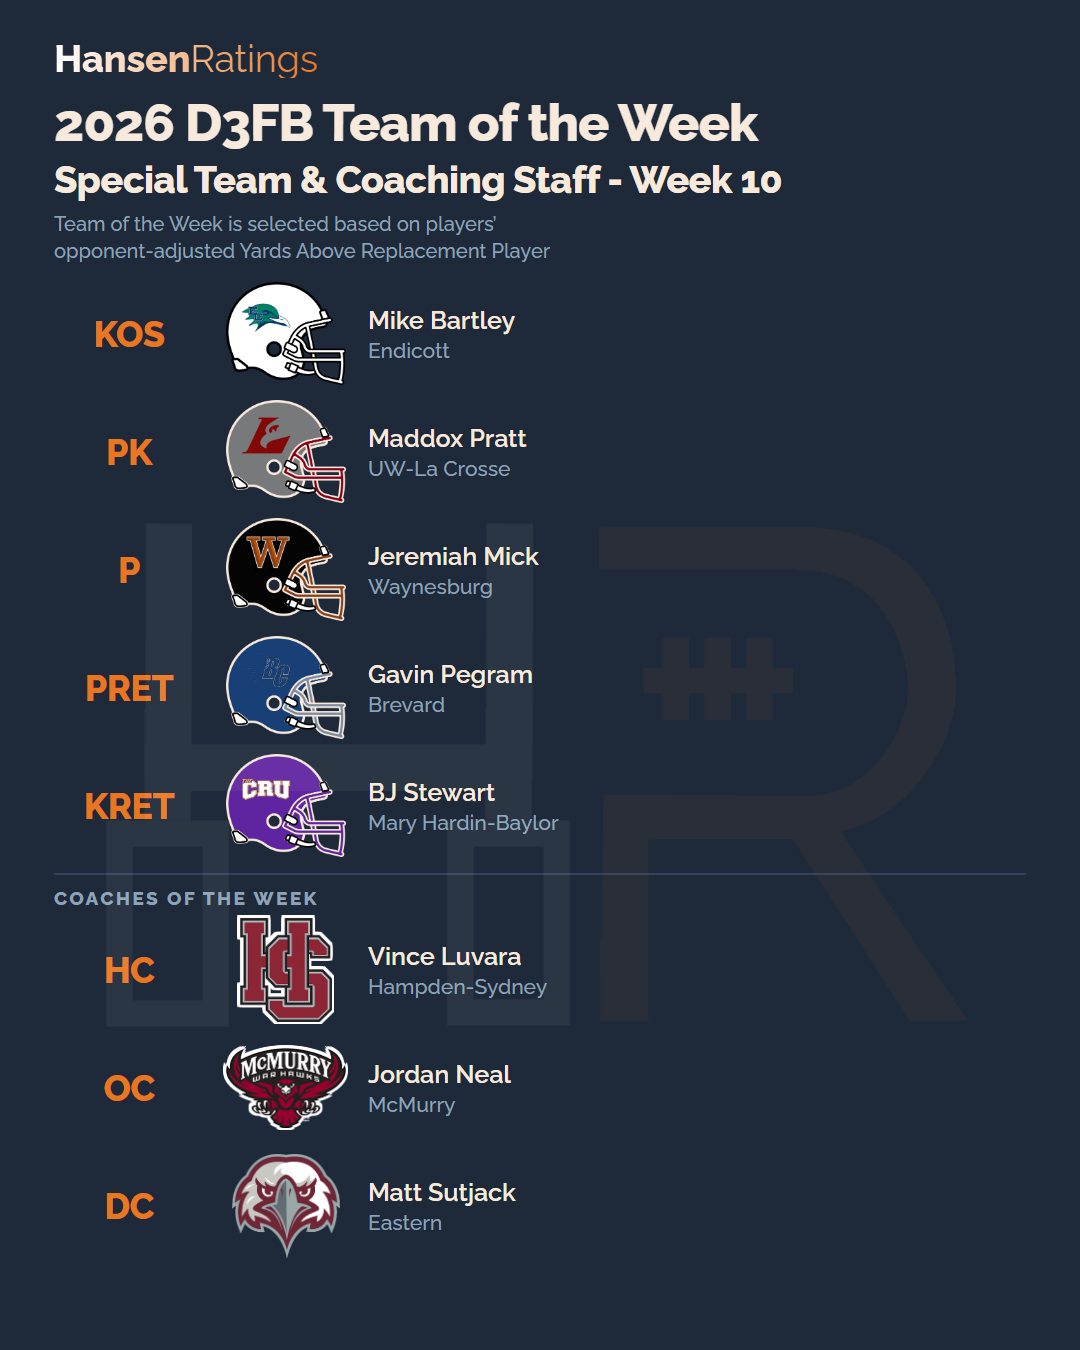
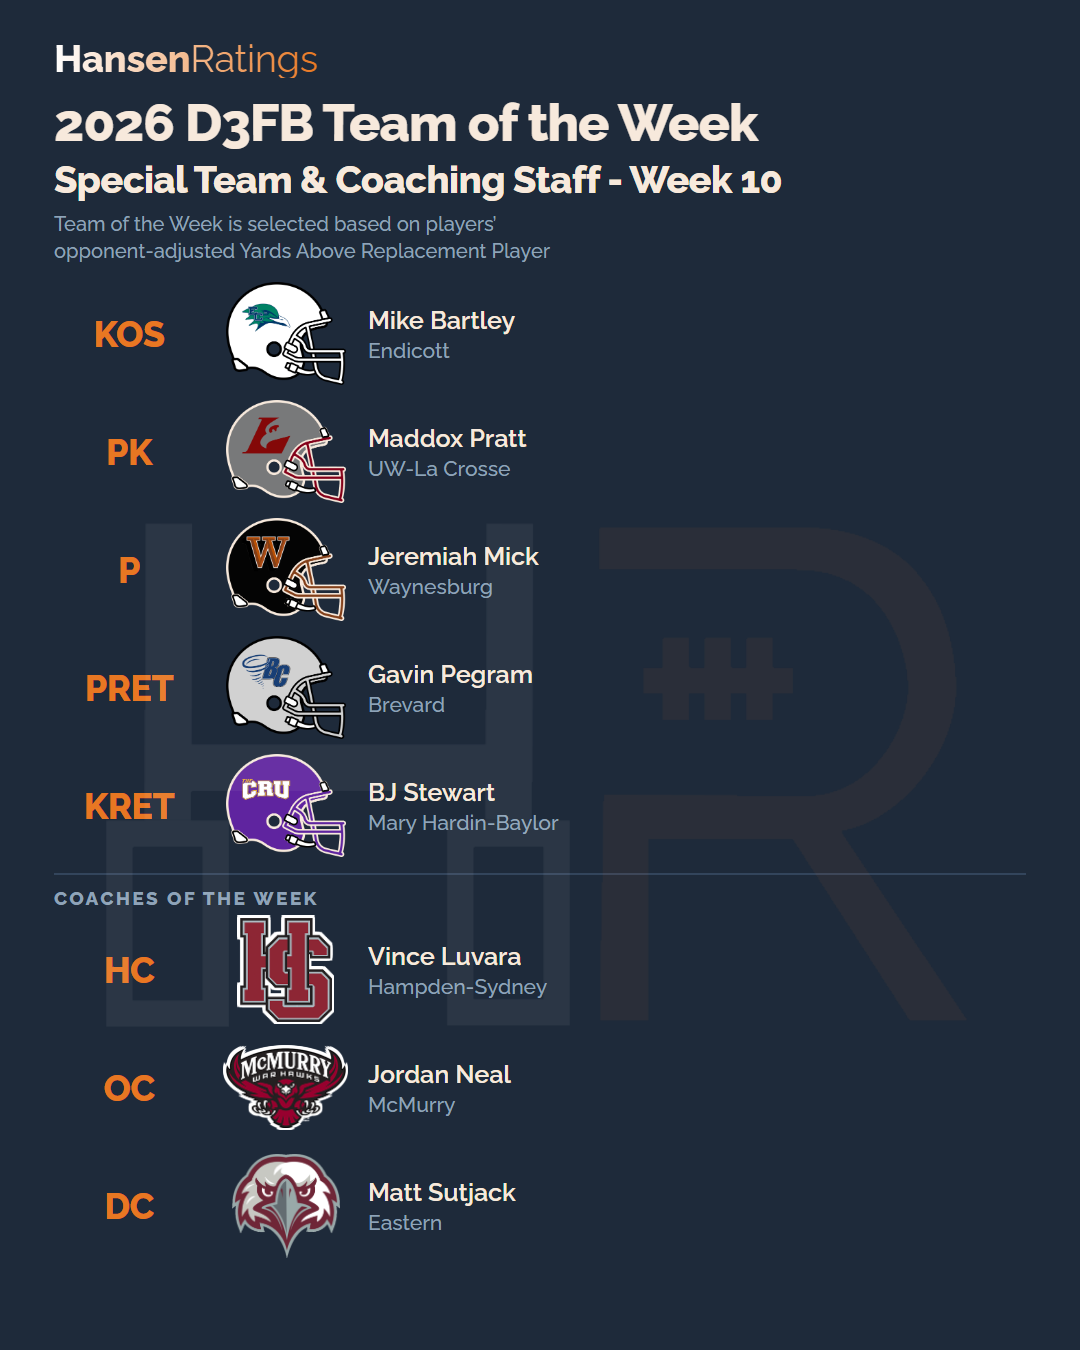
Week 10 Special Teams fix

Changed region(s): [[0.1833, 0.4667, 0.3361, 0.56]]

diff --git a/site/awards/2026/team-of-the-week/week-10/index.html b/site/awards/2026/team-of-the-week/week-10/index.html
@@ -37,7 +37,7 @@
     <nav class="hr-switch" aria-label="Season"><span class="hr-switch-label">Season</span><a aria-current="page">2026</a><a href="/awards/2025/">2025</a><a href="/awards/2024/">2024</a><a href="/awards/2023/">2023</a><a href="/awards/2022/">2022</a></nav><nav class="hr-switch" aria-label="View"><span class="hr-switch-label">View</span><a aria-current="page">Team of the Week</a></nav><nav class="hr-switch" aria-label="Week"><span class="hr-switch-label">Week</span><a aria-current="page">Week 10</a><a href="/awards/2026/team-of-the-week/week-9/">Week 9</a><a href="/awards/2026/team-of-the-week/week-8/">Week 8</a><a href="/awards/2026/team-of-the-week/week-7/">Week 7</a><a href="/awards/2026/team-of-the-week/week-6/">Week 6</a><a href="/awards/2026/team-of-the-week/week-5/">Week 5</a><a href="/awards/2026/team-of-the-week/week-4/">Week 4</a><a href="/awards/2026/team-of-the-week/week-3/">Week 3</a><a href="/awards/2026/team-of-the-week/week-2/">Week 2</a><a href="/awards/2026/team-of-the-week/week-1/">Week 1</a></nav>
   </div>
   <main class="hr-main">
-<div class="hr-scroll"><div class="hr-totw"><section class="u-off"><h2>Offense</h2><div class="r"><b>QB</b><span>Bryce Still<small>So</small><span class="t"><a href="/teams/2026/howard-payne/" class="hr-tlink">Howard Payne</a></span></span></div><div class="r"><b>RB</b><span>Quincy Drummer<small>Jr</small><span class="t"><a href="/teams/2026/coe/" class="hr-tlink">Coe</a></span></span></div><div class="r"><b>RB</b><span>Drew Miller<small>Sr</small><span class="t"><a href="/teams/2026/heidelberg/" class="hr-tlink">Heidelberg</a></span></span></div><div class="r"><b>WR</b><span>Noah Cracraft<small>Jr</small><span class="t"><a href="/teams/2026/simpson/" class="hr-tlink">Simpson</a></span></span></div><div class="r"><b>WR</b><span>Levi Campbell<small>Jr</small><span class="t"><a href="/teams/2026/manchester/" class="hr-tlink">Manchester</a></span></span></div><div class="r"><b>TE</b><span>Chance Hehman<small>Jr</small><span class="t"><a href="/teams/2026/howard-payne/" class="hr-tlink">Howard Payne</a></span></span></div><div class="r"><b>LT</b><span>Jason Murray<small>Jr</small><span class="t"><a href="/teams/2026/montclair-state/" class="hr-tlink">Montclair State</a></span></span></div><div class="r"><b>LG</b><span>Bryan Alvarez<small>Sr</small><span class="t"><a href="/teams/2026/montclair-state/" class="hr-tlink">Montclair State</a></span></span></div><div class="r"><b>C</b><span>Gabriel Dayon<small>Sr</small><span class="t"><a href="/teams/2026/montclair-state/" class="hr-tlink">Montclair State</a></span></span></div><div class="r"><b>RG</b><span>Amer Awad<small>Sr</small><span class="t"><a href="/teams/2026/montclair-state/" class="hr-tlink">Montclair State</a></span></span></div><div class="r"><b>RT</b><span>Caron McNair<small>Sr</small><span class="t"><a href="/teams/2026/montclair-state/" class="hr-tlink">Montclair State</a></span></span></div></section><section class="u-def"><h2>Defense</h2><div class="r"><b>DE</b><span>JD Crouse<small>Sr</small><span class="t"><a href="/teams/2026/baldwin-wallace/" class="hr-tlink">Baldwin Wallace</a></span></span></div><div class="r"><b>DE</b><span>Jack Mead<small>Jr</small><span class="t"><a href="/teams/2026/salve-regina/" class="hr-tlink">Salve Regina</a></span></span></div><div class="r"><b>DT</b><span>Billy Brosko<small>Jr</small><span class="t"><a href="/teams/2026/hobart/" class="hr-tlink">Hobart</a></span></span></div><div class="r"><b>LB</b><span>Drew Kretlow<small>Sr</small><span class="t"><a href="/teams/2026/gustavus-adolphus/" class="hr-tlink">Gustavus Adolphus</a></span></span></div><div class="r"><b>LB</b><span>TJ Scannell<small>Sr</small><span class="t"><a href="/teams/2026/trinity-texas/" class="hr-tlink">Trinity Texas</a></span></span></div><div class="r"><b>LB</b><span>Jack Scheldroup<small>Jr</small><span class="t"><a href="/teams/2026/uw-eau-claire/" class="hr-tlink">UW-Eau Claire</a></span></span></div><div class="r"><b>CB</b><span>Carter Sessa<small>Jr</small><span class="t"><a href="/teams/2026/uw-whitewater/" class="hr-tlink">UW-Whitewater</a></span></span></div><div class="r"><b>CB</b><span>Javon Pray<small>So</small><span class="t"><a href="/teams/2026/wilmington/" class="hr-tlink">Wilmington</a></span></span></div><div class="r"><b>CB</b><span>Mason Trimberger<small>Fr</small><span class="t"><a href="/teams/2026/st-norbert/" class="hr-tlink">St. Norbert</a></span></span></div><div class="r"><b>SAF</b><span>Jared Schultz<small>So</small><span class="t"><a href="/teams/2026/uw-river-falls/" class="hr-tlink">UW-River Falls</a></span></span></div><div class="r"><b>SAF</b><span>Lincoln Lynch<small>So</small><span class="t"><a href="/teams/2026/hartwick/" class="hr-tlink">Hartwick</a></span></span></div></section><section class="u-st"><h2>Special Teams</h2><div class="r"><b>KOS</b><span>Mike Bartley<small>Sr</small><span class="t"><a href="/teams/2026/endicott/" class="hr-tlink">Endicott</a></span></span></div><div class="r"><b>PK</b><span>Maddox Pratt<small>Sr</small><span class="t"><a href="/teams/2026/uw-la-crosse/" class="hr-tlink">UW-La Crosse</a></span></span></div><div class="r"><b>P</b><span>Jeremiah Mick<small>So</small><span class="t"><a href="/teams/2026/waynesburg/" class="hr-tlink">Waynesburg</a></span></span></div><div class="r"><b>PRET</b><span>Gavin Pegram<small>Fr</small><span class="t"><a href="/teams/2026/brevard/" class="hr-tlink">Brevard</a></span></span></div><div class="r"><b>KRET</b><span>BJ Stewart<small>Sr</small><span class="t"><a href="/teams/2026/mary-hardin-baylor/" class="hr-tlink">Mary Hardin-Baylor</a></span></span></div></section><section class="u-co"><h2>Coaches</h2><div class="r"><b>HC</b><span>Vince Luvara<span class="t"><a href="/teams/2026/hampden-sydney/" class="hr-tlink">Hampden-Sydney</a></span></span></div><div class="r"><b>OC</b><span>Jordan Neal<span class="t"><a href="/teams/2026/mcmurry/" class="hr-tlink">McMurry</a></span></span></div><div class="r"><b>DC</b><span>Matt Sutjack<span class="t"><a href="/teams/2026/eastern/" class="hr-tlink">Eastern</a></span></span></div></section></div><div class="hr-boards"><img src="offense.png?v=72c0f1d3" alt="2026 Week 10 team of the week, offense" loading="lazy"><img src="defense.png?v=a9bea8b9" alt="2026 Week 10 team of the week, defense" loading="lazy"><img src="special-teams.png?v=c940eacb" alt="2026 Week 10 team of the week, special teams" loading="lazy"></div></div>
+<div class="hr-scroll"><div class="hr-totw"><section class="u-off"><h2>Offense</h2><div class="r"><b>QB</b><span>Bryce Still<small>So</small><span class="t"><a href="/teams/2026/howard-payne/" class="hr-tlink">Howard Payne</a></span></span></div><div class="r"><b>RB</b><span>Quincy Drummer<small>Jr</small><span class="t"><a href="/teams/2026/coe/" class="hr-tlink">Coe</a></span></span></div><div class="r"><b>RB</b><span>Drew Miller<small>Sr</small><span class="t"><a href="/teams/2026/heidelberg/" class="hr-tlink">Heidelberg</a></span></span></div><div class="r"><b>WR</b><span>Noah Cracraft<small>Jr</small><span class="t"><a href="/teams/2026/simpson/" class="hr-tlink">Simpson</a></span></span></div><div class="r"><b>WR</b><span>Levi Campbell<small>Jr</small><span class="t"><a href="/teams/2026/manchester/" class="hr-tlink">Manchester</a></span></span></div><div class="r"><b>TE</b><span>Chance Hehman<small>Jr</small><span class="t"><a href="/teams/2026/howard-payne/" class="hr-tlink">Howard Payne</a></span></span></div><div class="r"><b>LT</b><span>Jason Murray<small>Jr</small><span class="t"><a href="/teams/2026/montclair-state/" class="hr-tlink">Montclair State</a></span></span></div><div class="r"><b>LG</b><span>Bryan Alvarez<small>Sr</small><span class="t"><a href="/teams/2026/montclair-state/" class="hr-tlink">Montclair State</a></span></span></div><div class="r"><b>C</b><span>Gabriel Dayon<small>Sr</small><span class="t"><a href="/teams/2026/montclair-state/" class="hr-tlink">Montclair State</a></span></span></div><div class="r"><b>RG</b><span>Amer Awad<small>Sr</small><span class="t"><a href="/teams/2026/montclair-state/" class="hr-tlink">Montclair State</a></span></span></div><div class="r"><b>RT</b><span>Caron McNair<small>Sr</small><span class="t"><a href="/teams/2026/montclair-state/" class="hr-tlink">Montclair State</a></span></span></div></section><section class="u-def"><h2>Defense</h2><div class="r"><b>DE</b><span>JD Crouse<small>Sr</small><span class="t"><a href="/teams/2026/baldwin-wallace/" class="hr-tlink">Baldwin Wallace</a></span></span></div><div class="r"><b>DE</b><span>Jack Mead<small>Jr</small><span class="t"><a href="/teams/2026/salve-regina/" class="hr-tlink">Salve Regina</a></span></span></div><div class="r"><b>DT</b><span>Billy Brosko<small>Jr</small><span class="t"><a href="/teams/2026/hobart/" class="hr-tlink">Hobart</a></span></span></div><div class="r"><b>LB</b><span>Drew Kretlow<small>Sr</small><span class="t"><a href="/teams/2026/gustavus-adolphus/" class="hr-tlink">Gustavus Adolphus</a></span></span></div><div class="r"><b>LB</b><span>TJ Scannell<small>Sr</small><span class="t"><a href="/teams/2026/trinity-texas/" class="hr-tlink">Trinity Texas</a></span></span></div><div class="r"><b>LB</b><span>Jack Scheldroup<small>Jr</small><span class="t"><a href="/teams/2026/uw-eau-claire/" class="hr-tlink">UW-Eau Claire</a></span></span></div><div class="r"><b>CB</b><span>Carter Sessa<small>Jr</small><span class="t"><a href="/teams/2026/uw-whitewater/" class="hr-tlink">UW-Whitewater</a></span></span></div><div class="r"><b>CB</b><span>Javon Pray<small>So</small><span class="t"><a href="/teams/2026/wilmington/" class="hr-tlink">Wilmington</a></span></span></div><div class="r"><b>CB</b><span>Mason Trimberger<small>Fr</small><span class="t"><a href="/teams/2026/st-norbert/" class="hr-tlink">St. Norbert</a></span></span></div><div class="r"><b>SAF</b><span>Jared Schultz<small>So</small><span class="t"><a href="/teams/2026/uw-river-falls/" class="hr-tlink">UW-River Falls</a></span></span></div><div class="r"><b>SAF</b><span>Lincoln Lynch<small>So</small><span class="t"><a href="/teams/2026/hartwick/" class="hr-tlink">Hartwick</a></span></span></div></section><section class="u-st"><h2>Special Teams</h2><div class="r"><b>KOS</b><span>Mike Bartley<small>Sr</small><span class="t"><a href="/teams/2026/endicott/" class="hr-tlink">Endicott</a></span></span></div><div class="r"><b>PK</b><span>Maddox Pratt<small>Sr</small><span class="t"><a href="/teams/2026/uw-la-crosse/" class="hr-tlink">UW-La Crosse</a></span></span></div><div class="r"><b>P</b><span>Jeremiah Mick<small>So</small><span class="t"><a href="/teams/2026/waynesburg/" class="hr-tlink">Waynesburg</a></span></span></div><div class="r"><b>PRET</b><span>Gavin Pegram<small>Fr</small><span class="t"><a href="/teams/2026/brevard/" class="hr-tlink">Brevard</a></span></span></div><div class="r"><b>KRET</b><span>BJ Stewart<small>Sr</small><span class="t"><a href="/teams/2026/mary-hardin-baylor/" class="hr-tlink">Mary Hardin-Baylor</a></span></span></div></section><section class="u-co"><h2>Coaches</h2><div class="r"><b>HC</b><span>Vince Luvara<span class="t"><a href="/teams/2026/hampden-sydney/" class="hr-tlink">Hampden-Sydney</a></span></span></div><div class="r"><b>OC</b><span>Jordan Neal<span class="t"><a href="/teams/2026/mcmurry/" class="hr-tlink">McMurry</a></span></span></div><div class="r"><b>DC</b><span>Matt Sutjack<span class="t"><a href="/teams/2026/eastern/" class="hr-tlink">Eastern</a></span></span></div></section></div><div class="hr-boards"><img src="offense.png?v=72c0f1d3" alt="2026 Week 10 team of the week, offense" loading="lazy"><img src="defense.png?v=a9bea8b9" alt="2026 Week 10 team of the week, defense" loading="lazy"><img src="special-teams.png?v=07c74382" alt="2026 Week 10 team of the week, special teams" loading="lazy"></div></div>
   </main>
   <footer class="hr-foot">
     <span>&copy; Hansen Ratings</span>
